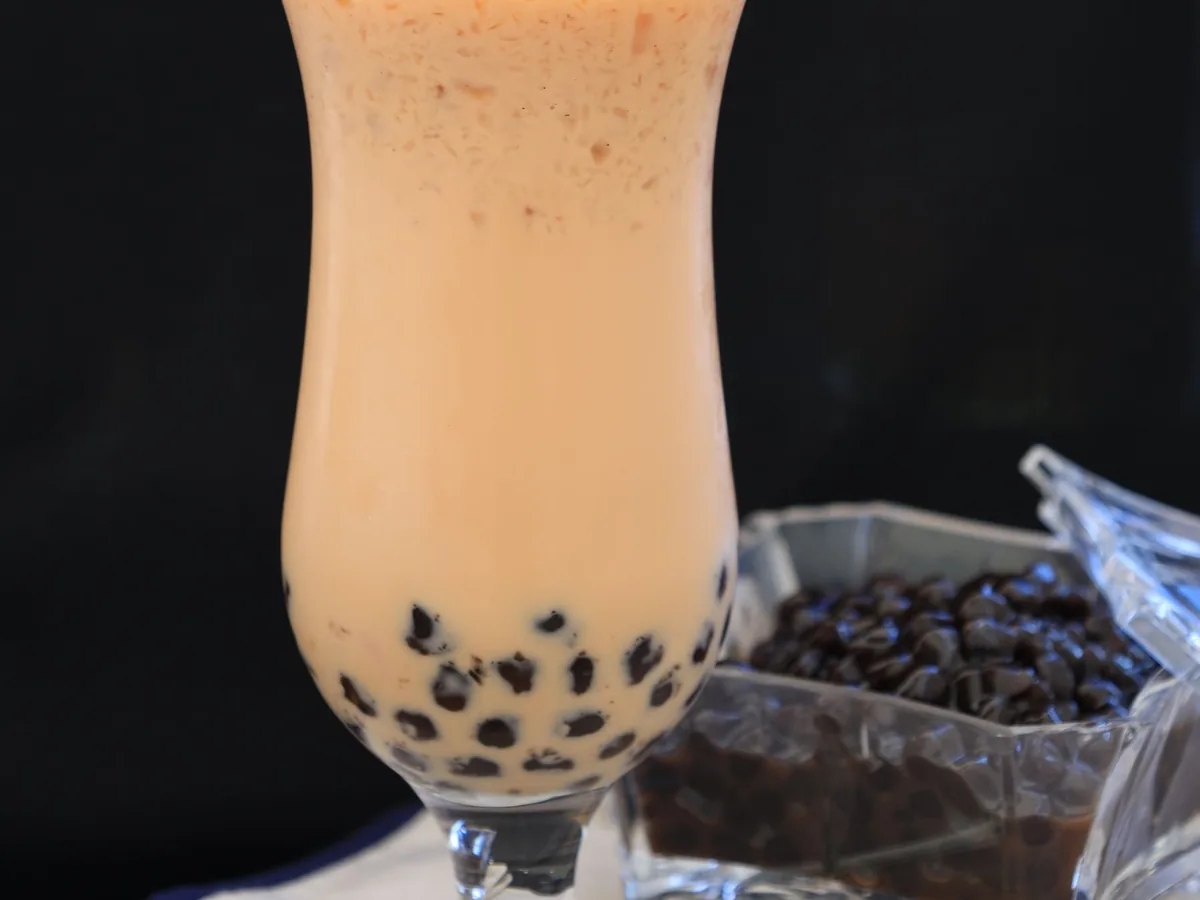
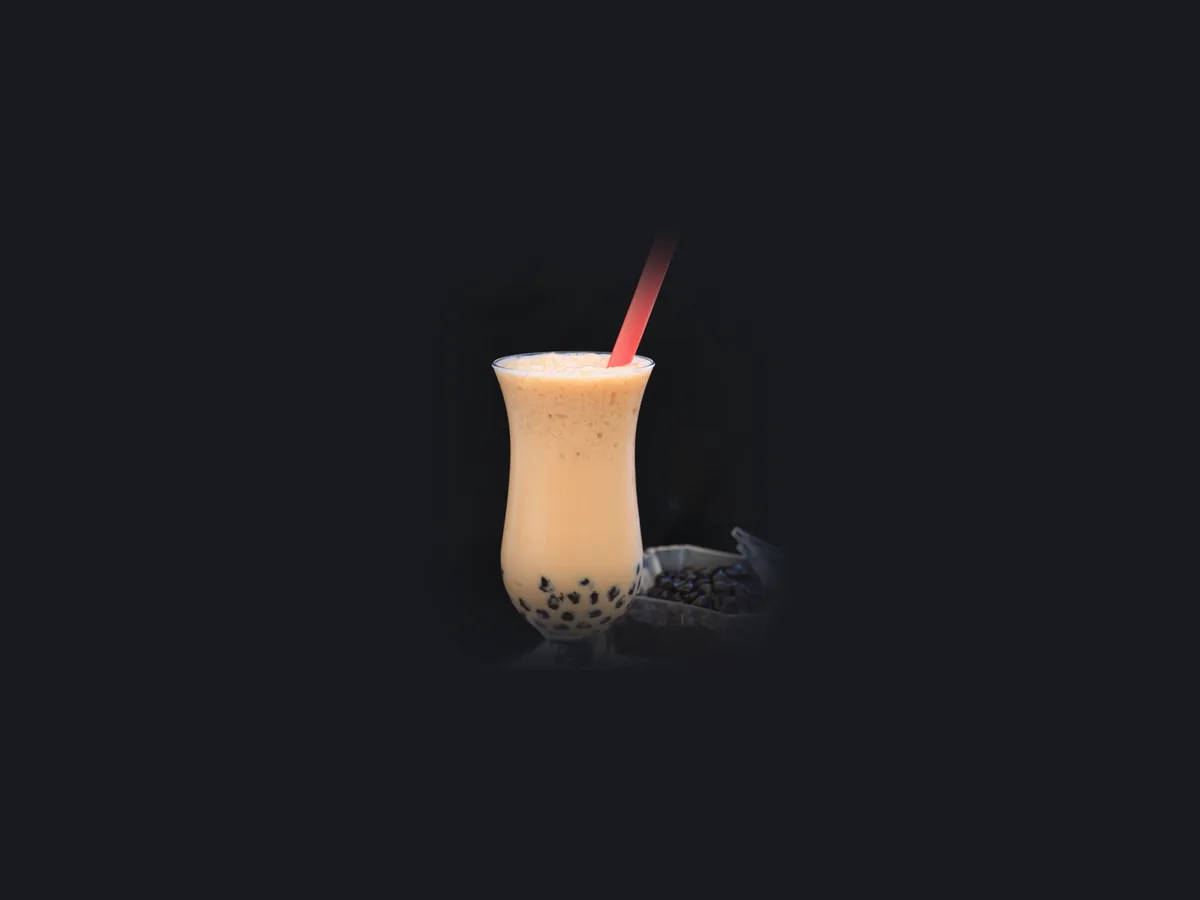
fix(DEV-SEED): ảnh thịt kho, rau xào, trà sữa, sinh tố không bị dải card cắt mất món (D98.2)
Biến thể card 760×320 (D88) chỉ giữ dải giữa ~56% chiều cao ảnh 4:3. Thịt kho, rau
xào đổi sang ảnh có món nằm gọn giữa khung; trà sữa, sinh tố thu nhỏ cả ly đặt giữa
nền tối. Hash bản trước vào RetiredSha256 để DB dev tự thay.

diff --git a/backend/CulinaryBlog.Infrastructure/Persistence/Seeding/SeedImageAssets.cs b/backend/CulinaryBlog.Infrastructure/Persistence/Seeding/SeedImageAssets.cs
@@ -67,6 +67,12 @@ public static class SeedImageAssets
[3 lines of base64/hex data omitted]
+
+        // D98.2 — bản D98 đầu bị dải card 760×320 cắt mất chủ thể (ảnh cận / ly cao), đã thay.
[4 lines of base64/hex data omitted]
     };
 
     public static string FileName(string slug) => slug + Extension;

diff --git a/backend/CulinaryBlog.Infrastructure/Persistence/Seeding/Images/CREDITS.md b/backend/CulinaryBlog.Infrastructure/Persistence/Seeding/Images/CREDITS.md
@@ -53,12 +53,12 @@ Không dùng ảnh do AI tạo. Món chưa tìm được ảnh đúng món thì 
 | `nuoc-chanh-day.webp` | Pexels | — | Pexels License | https://www.pexels.com/photo/13640505/ |
 | `nuoc-sam-bi-dao.webp` | Pexels | — | Pexels License | https://www.pexels.com/photo/38030756/ |
 | `pho-bo-ha-noi.webp` | Pexels | — | Pexels License | https://www.pexels.com/photo/4153908/ |
-| `rau-cu-xao-thap-cam.webp` | Pexels | — | Pexels License | https://www.pexels.com/photo/5848482/ |
+| `rau-cu-xao-thap-cam.webp` | Pexels | — | Pexels License | https://www.pexels.com/photo/37297752/ |
 | `sinh-to-bo.webp` | Pexels | — | Pexels License | https://www.pexels.com/photo/11009209/ |
 | `sua-chua-nep-cam.webp` | Wikimedia Commons | Buileducanh (thảo luận) | [CC BY-SA 3.0](https://creativecommons.org/licenses/by-sa/3.0) | [Sữa chua nếp cẩm.jpg](https://commons.wikimedia.org/wiki/File:S%E1%BB%AFa_chua_n%E1%BA%BFp_c%E1%BA%A9m.jpg) |
 | `suon-xao-chua-ngot.webp` | Wikimedia Commons | Liam Chucao Maixlld | [CC BY-SA 4.0](https://creativecommons.org/licenses/by-sa/4.0) | [HK CWB 銅鑼灣 Causeway Bay 溫莎大廈 Windsor House mall shop 稻香酒家 Tao Heung Restaurant 糖醋排骨 Sweet and Sour Ribs September 2022 Px3 01.jpg](https://commons.wikimedia.org/wiki/File:HK_CWB_%E9%8A%85%E9%91%BC%E7%81%A3_Causeway_Bay_%E6%BA%AB%E8%8E%8E%E5%A4%A7%E5%BB%88_Windsor_House_mall_shop_%E7%A8%BB%E9%A6%99%E9%85%92%E5%AE%B6_Tao_Heung_Restaurant_%E7%B3%96%E9%86%8B%E6%8E%92%E9%AA%A8_Sweet_and_Sour_Ribs_September_2022_Px3_01.jpg) |
 | `sup-cua.webp` | Wikimedia Commons | Phương Huy | [CC BY-SA 4.0](https://creativecommons.org/licenses/by-sa/4.0) | [Mũi Né th7n2023, Khu ND (bữa sáng với món súp cua) (2).jpg](https://commons.wikimedia.org/wiki/File:M%C5%A9i_N%C3%A9_th7n2023,_Khu_ND_(b%E1%BB%AFa_s%C3%A1ng_v%E1%BB%9Bi_m%C3%B3n_s%C3%BAp_cua)_(2).jpg) |
-| `thit-kho-trung.webp` | Pexels | — | Pexels License | https://www.pexels.com/photo/34474143/ |
+| `thit-kho-trung.webp` | Pexels | — | Pexels License | https://www.pexels.com/photo/36126349/ |
 | `tom-rim-man-ngot.webp` | Pexels | — | Pexels License | https://www.pexels.com/photo/36942418/ |
 | `tra-sua-tran-chau.webp` | Pexels | — | Pexels License | https://www.pexels.com/photo/11160112/ |
 | `tra-tac-mat-ong.webp` | Wikimedia Commons | Cohaithaofoody | [CC BY-SA 4.0](https://creativecommons.org/licenses/by-sa/4.0) | [Trà tắc và bánh tráng.jpg](https://commons.wikimedia.org/wiki/File:Tr%C3%A0_t%E1%BA%AFc_v%C3%A0_b%C3%A1nh_tr%C3%A1ng.jpg) |

diff --git a/docs/decisions.md b/docs/decisions.md
@@ -2782,6 +2782,11 @@ nhận ảnh mới nếu chỉ thay file.
    ảnh, alt = tên món và nội dung trùng một hash cũ → gỡ ảnh, enqueue xóa file gốc + biến thể (D43), gắn ảnh mới,
    enqueue tạo biến thể (FR-JOB-002). Nhận diện theo nội dung nên ảnh người dùng upload không bao giờ khớp; object
    không đọc được → để nguyên.
+5. *D98.2 (2026-11-13, người dùng xem trên web):* thẻ món (biến thể card 760×320 ≈ 2,4:1, D88) chỉ giữ dải giữa
+   ~56% chiều cao ảnh → ảnh cận (thịt kho, rau xào) và ly cao (trà sữa, sinh tố) mất chủ thể. Thịt kho, rau xào đổi
+   sang ảnh có món nằm gọn giữa khung; trà sữa, sinh tố (nền tối trơn) thu nhỏ cả ly đặt giữa khung, mép ảnh mờ dần
+   vào màu nền — cả ly lọt dải card. Hash bản trước thêm vào `RetiredSha256`. **Quy tắc chọn ảnh từ nay:** xem cả dải
+   2,4:1 ở giữa, không chỉ khung 4:3.
 
 **Vì:** ảnh mẫu là thứ đầu tiên người xem thấy khi demo; thay bằng ảnh đúng món, chụp chuyên nghiệp mà không đổi
 API, schema hay frontend. Không bắt cả nhóm xóa volume dev.
